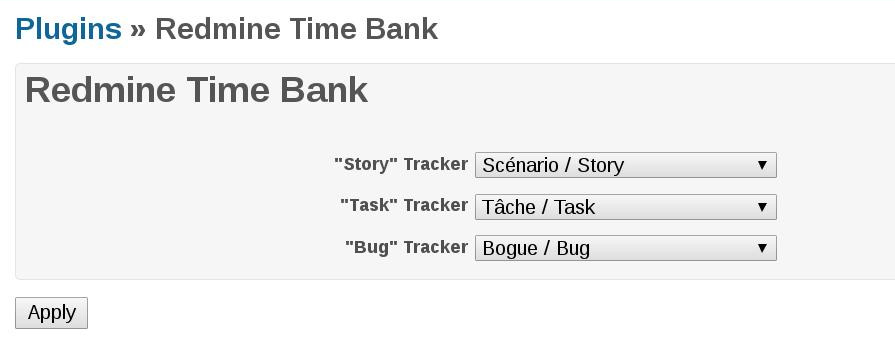
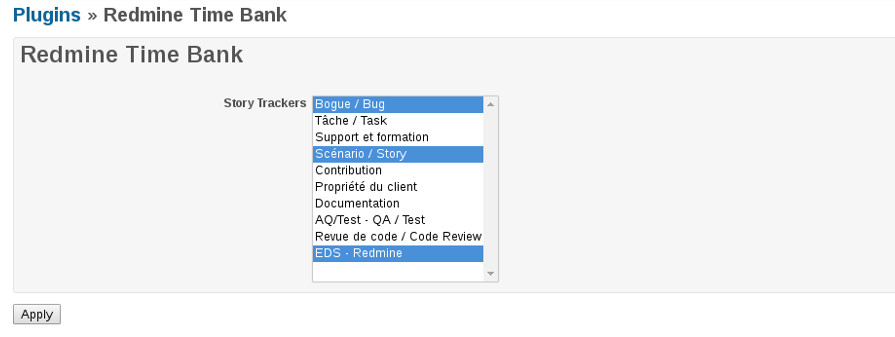
More flexible way to choose story trackers
In the plugin configuration, you can now check multiple trackers as stories, and the rest will be considered as tasks.

diff --git a/lib/versions_controller_patch.rb b/lib/versions_controller_patch.rb
@@ -28,11 +28,14 @@ module VersionsControllerPatch
 		def show_with_timebank
 
 			config = Setting.plugin_redmine_timebank
-
-			unless config.values.uniq! == nil then
-				flash[:error] = "Redmine Time Bank plugin is not properly configured, data tables may be wrong."
+			if config == '' or config.values.uniq! != nil then
+				flash[:error] = "Redmine Time Bank plugin is not properly configured. Go to Admin -> Plugins -> TimeBank"
+				return redirect_to @version.project
 			end
-			
+
+			story_trackers = config[:story_trackers].map(&:to_i)
+			task_trackers = Tracker.all.pluck(:id) - story_trackers
+
 			@version = Version.find(params[:id])
 			@project = @version.project
 
@@ -42,13 +45,12 @@ module VersionsControllerPatch
 			end 
 
 			@timebank = {}
-			timebank_trackers = [config[:tracker_story], config[:tracker_bug]]
-			@timebank[Version] = TimeBankHelper.issues_summations(@version, timebank_trackers, 'category_id', columns)
-			@timebank[Project] = TimeBankHelper.issues_summations(@project, timebank_trackers, 'category_id', columns - [:story_points, :estimated_hours])
+			@timebank[Version] = TimeBankHelper.issues_summations(@version, story_trackers, 'category_id', columns)
+			@timebank[Project] = TimeBankHelper.issues_summations(@project, story_trackers, 'category_id', columns - [:story_points, :estimated_hours])
 
 			@v_issues = {}
-			@v_issues[:stories] = TimeBankHelper.issues_summations(@version, [config[:tracker_story], config[:tracker_bug]], 'id', columns)
-			@v_issues[:tasks] = TimeBankHelper.issues_summations(@version, [config[:tracker_task]], 'id', columns - [:story_points])
+			@v_issues[:stories] = TimeBankHelper.issues_summations(@version, story_trackers, 'id', columns)
+			@v_issues[:tasks] = TimeBankHelper.issues_summations(@version, task_trackers, 'id', columns - [:story_points])
 
 			@show_timebanks = columns.count > 0
 

diff --git a/init.rb b/init.rb
@@ -29,9 +29,7 @@ Redmine::Plugin.register :redmine_timebank do
 	author_url 'https://www.savoirfairelinux.com/'
 
 	settings :default => {
-		:tracker_story => nil,
-		:tracker_bug => nil,
-		:tracker_task => nil
-	},:partial => 'sfl_timebank_settings'
+		:story_trackers => []
+	}, :partial => 'sfl_timebank_settings'
 
 end

diff --git a/README.md b/README.md
@@ -49,11 +49,7 @@ Configuration procedure
 
 Once installed, to configure the plugin you will first need to go to `Administration -> Plugins -> Redmine Time Bank -> Configuration`
 
-When you're there, you have some inputs to configure the plugin :
-
-* Story tracker
-* Task tracker
-* Bug tracker
+When you're there, you choose the trackers that are considered as stories (ex: Story, Bug, EDS, etc..). Hold CTRL + click the trackers that you want to choose, after this you can save. The plugin should be now ready to use on all projects that have at least one version.
 
 ![Plugin settings screenshot](https://github.com/savoirfairelinux/redmine-timebank/raw/master/screenshots/settings.jpg)
 
